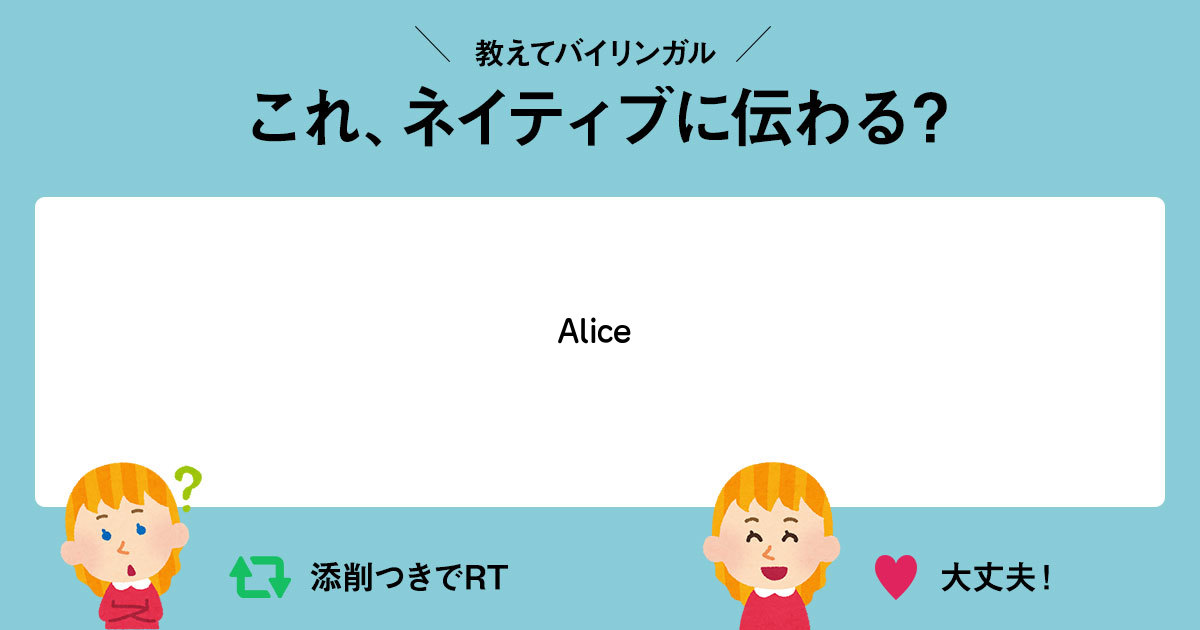
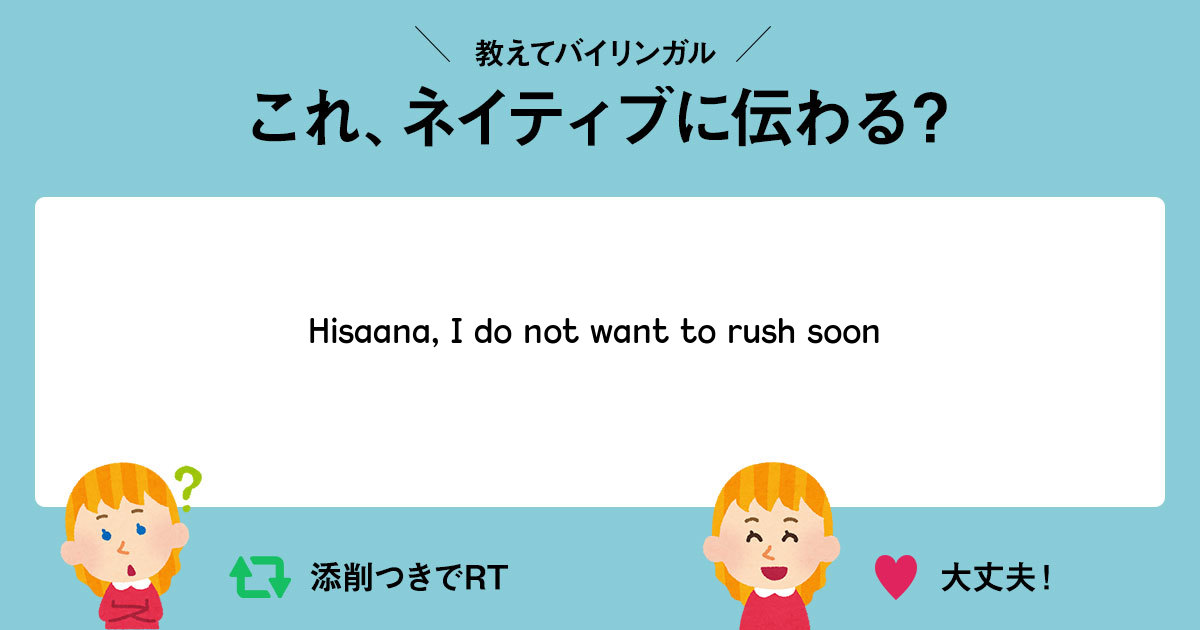
[Update] modify controller for indicating the situation
オプションの「シチュエーション」をリザルト画面に表示されるようにした

Changed region(s): [[0.2467, 0.5127, 0.74, 0.5429]]

diff --git a/app/javascript/packs/app.js b/app/javascript/packs/app.js
@@ -281,7 +281,7 @@ class App extends Component {
                                         <input type="checkbox" name="option" className="c-accordion__checkbox" id="situationOption"/>
                                         <div className="c-accordion__body">
                                             <label htmlFor="resultInputSituation">シチュエーション（オプション）</label><br/>
-                                            <textarea className="p-textarea--source" id="resultInputSituation" placeholder="例：ビジネスのメール、友達との会話、大学のレポート など"/>
+                                            <textarea className="p-textarea--source" id="resultInputSituation" name="situation" placeholder="例：ビジネスのメール、友達との会話、大学のレポート など"/>
                                         </div>
                                     </div>
                                 <div className="l-divide">

diff --git a/app/controllers/translator_controller.rb b/app/controllers/translator_controller.rb
@@ -4,13 +4,13 @@ class TranslatorController < ApplicationController
 
   def result
   	translated = ogp_params[:translated]
-  	# puts 'paramater is ...' + translated
     image = OgpCreator.build(translated)
     @originalText = ogp_params[:originalText]
+    @situation = ogp_params[:situation]
 
   end
 
   def ogp_params
-    params.permit(:translated, :originalText)
+    params.permit(:translated, :originalText, :situation)
   end
 end
